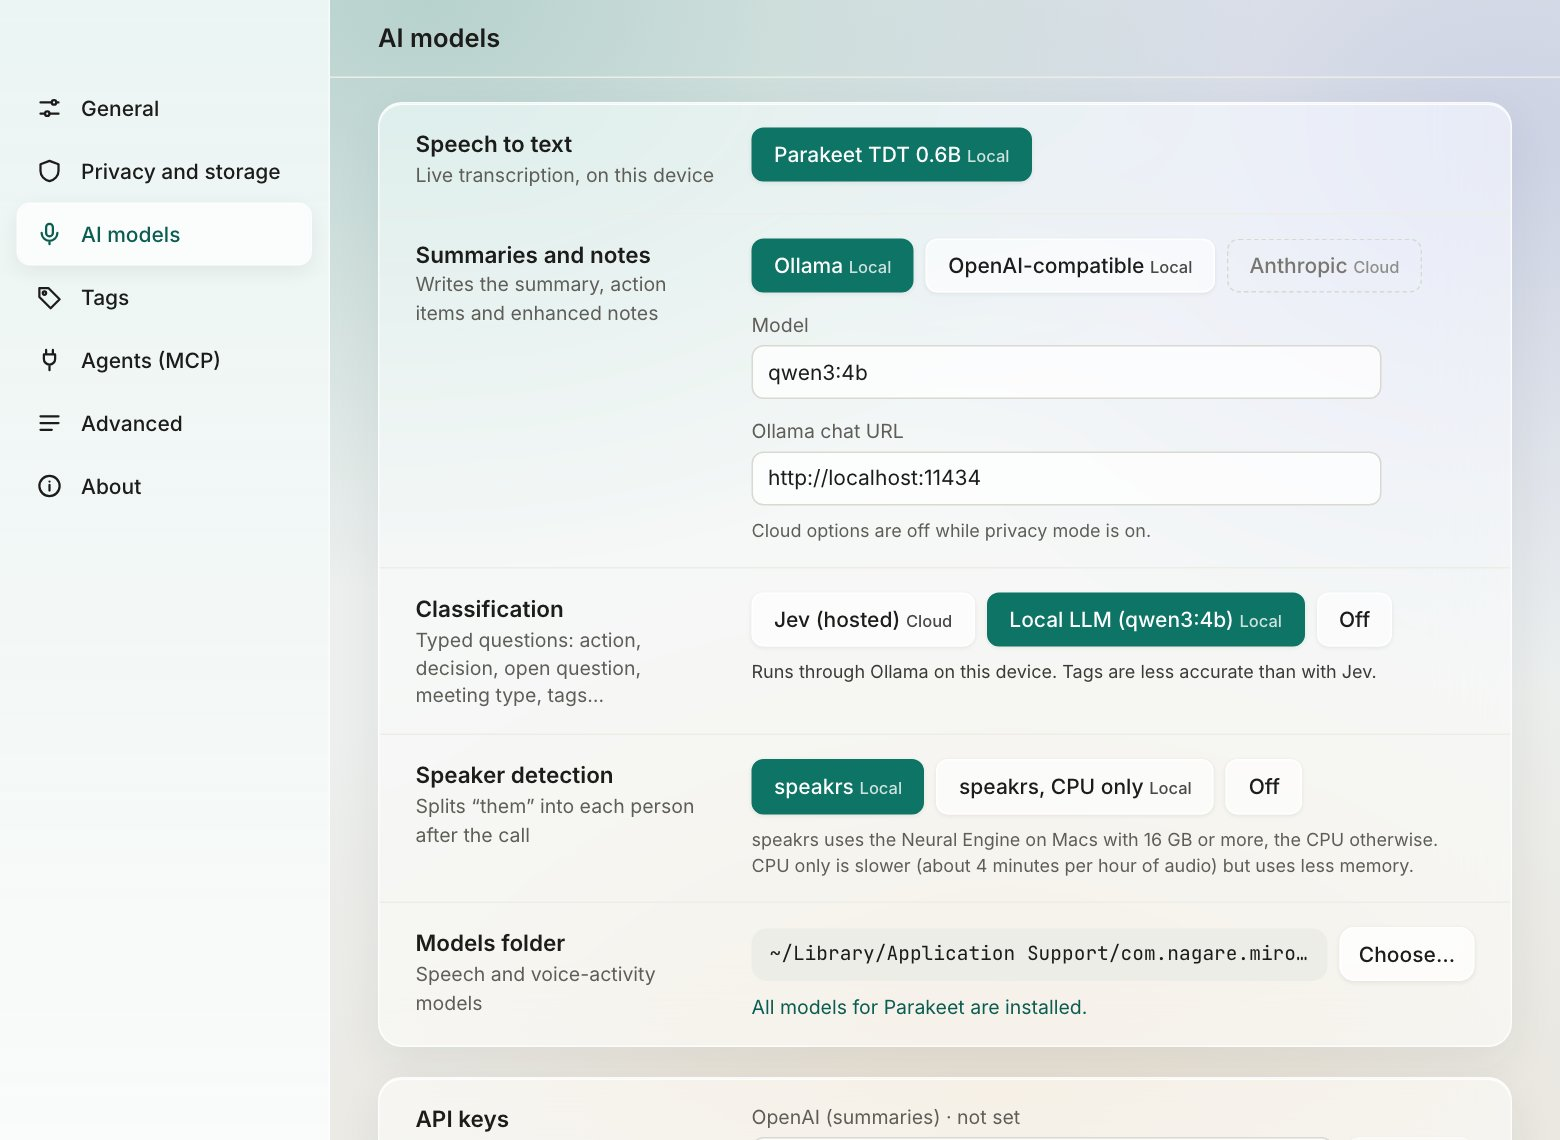
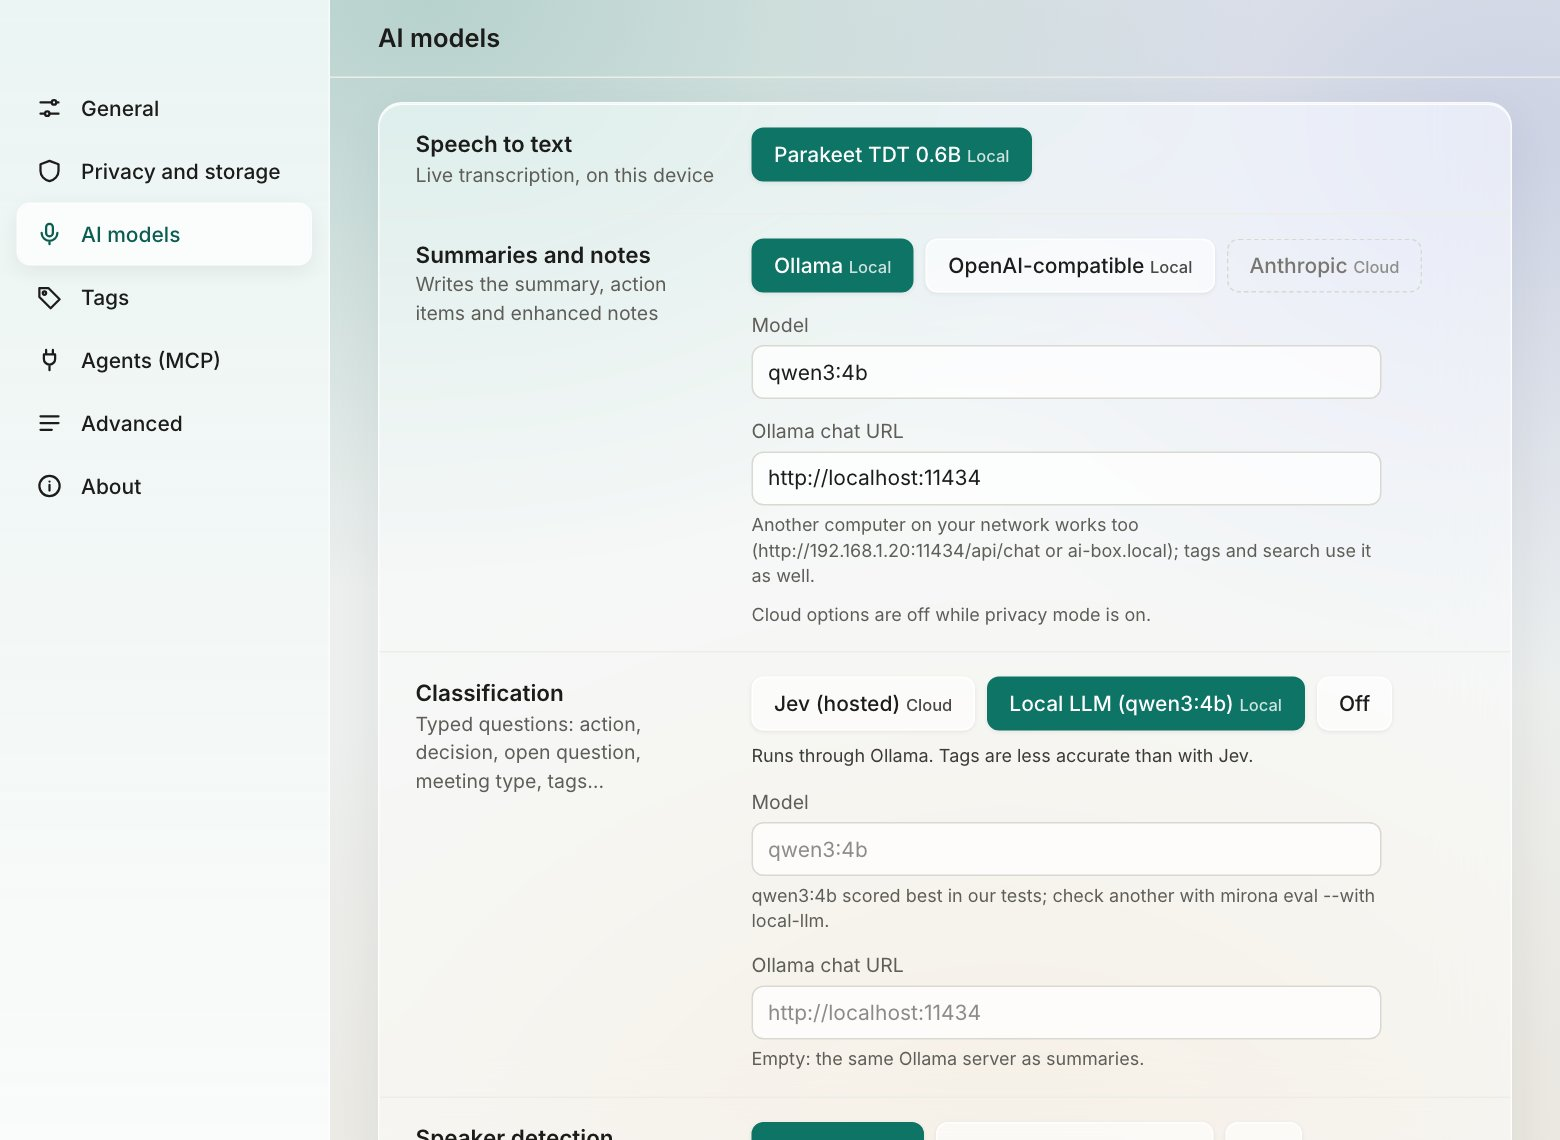
Local classifier model and server: Settings › AI models › Classification picks the Ollama model and chat URL ([classifier] in config.toml; empty: qwen3:4b on the summary's Ollama server), checked against privacy mode; mirona eval --with local-llm uses it

diff --git a/app/src/views/Settings.tsx b/app/src/views/Settings.tsx
@@ -879,7 +879,7 @@ function SettingsView() {
             value={st.classification}
             options={[
               { id: "jev", name: "Jev (hosted)", cloud: true },
-              { id: "local-llm", name: "Local LLM (qwen3:4b)" },
+              { id: "local-llm", name: `Local LLM (${st.classifierModel || "qwen3:4b"})` },
               { id: "off", name: "Off", tag: "" },
             ]}
             onPick={(classification) => save({ classification })}
@@ -887,7 +887,25 @@ function SettingsView() {
           {st.classification === "jev" && privacy && (
             <p className="mt-2 text-[12px] text-ink-3">Privacy mode is on, so the local LLM answers instead of Jev. Tags are less accurate in privacy mode.</p>
           )}
-          {st.classification === "local-llm" && <p className="mt-2 text-[12px] text-ink-3">Runs through Ollama on this device. Tags are less accurate than with Jev.</p>}
+          {st.classification === "local-llm" && <p className="mt-2 text-[12px] text-ink-3">Runs through Ollama. Tags are less accurate than with Jev.</p>}
+          {(st.classification === "local-llm" || (st.classification === "jev" && privacy)) && (
+            <div className="mt-3 flex max-w-[420px] flex-col gap-3">
+              <Field
+                label="Model"
+                hint="qwen3:4b scored best in our tests; check another with mirona eval --with local-llm."
+                value={st.classifierModel}
+                placeholder="qwen3:4b"
+                onSave={(classifierModel) => save({ classifierModel })}
+              />
+              <Field
+                label="Ollama chat URL"
+                hint="Empty: the same Ollama server as summaries."
+                value={st.classifierBaseUrl}
+                placeholder={st.llm === "ollama" && st.llmBaseUrl ? st.llmBaseUrl : llmDefaults.ollama.url}
+                onSave={(classifierBaseUrl) => save({ classifierBaseUrl })}
+              />
+            </div>
+          )}
           {st.classification === "jev" && !privacy && !status.keys.includes("jev") && (
             <p className="mt-2 text-[12px] text-record-text">Add your Jev key under API keys below; until then the local LLM answers.</p>
           )}

diff --git a/app/src/lib/api.ts b/app/src/lib/api.ts
@@ -35,6 +35,9 @@ export type Settings = {
   meetingsDir: string;
   modelsDir: string;
   classification: "jev" | "local-llm" | "off";
+  /** The local classifier (Ollama); empty: qwen3:4b on the summary's Ollama server. */
+  classifierModel: string;
+  classifierBaseUrl: string;
   diarization: "speakrs" | "speakrs-cpu" | "off";
   /** Question id → the user's threshold; the rest use `thresholdDefaults`. */
   thresholds: Record<string, number>;

diff --git a/app/scripts/shots/mock.ts b/app/scripts/shots/mock.ts
@@ -28,6 +28,8 @@ const settings = {
   meetingsDir: "~/Documents/Mirona",
   modelsDir: "~/Library/Application Support/com.nagare.mirona/models",
   classification: "local-llm",
+  classifierModel: "",
+  classifierBaseUrl: "",
   diarization: "speakrs",
   thresholds: {},
   thresholdDefaults: { action: 0.99, decision: 0.95, unanswered: 0.85, smalltalk: 0.85, sensitive: 0.6, meeting_type: 0.85, tag: 0.85, follow_up: 0.85 },

diff --git a/app/src-tauri/src/lib.rs b/app/src-tauri/src/lib.rs
@@ -1318,6 +1318,11 @@ struct Settings {
     /// jev | local-llm | off
     #[serde(default)]
     classification: String,
+    /// The local classifier's Ollama model and chat URL; empty: `qwen3:4b`, the summary's server.
+    #[serde(default)]
+    classifier_model: String,
+    #[serde(default)]
+    classifier_base_url: String,
     /// speakrs (`CoreML` when it can) | speakrs-cpu | off
     #[serde(default)]
     diarization: String,
@@ -1420,6 +1425,8 @@ impl Settings {
             meetings_dir: paths.meetings.clone(),
             models_dir: paths.models.clone(),
             classification: mirona_engine::stage(cfg, "classification", "jev"),
+            classifier_model: cfg.classifier.model.clone(),
+            classifier_base_url: cfg.classifier.base_url.clone(),
             diarization: mirona_engine::stage(cfg, "diarization", "speakrs"),
             thresholds: cfg.thresholds.clone(),
             threshold_defaults: {
@@ -1447,6 +1454,19 @@ impl Settings {
             retention_tags: cfg.retention.tags.clone(),
             check_updates: cfg.check_updates,
         }
+    }
+
+    /// The classifier's Ollama URL; in privacy mode only this Mac or the local network.
+    fn classifier_url(&self) -> Res<&str> {
+        let url = self.classifier_base_url.trim();
+        if self.privacy && !url.is_empty() && !mirona_providers::net::is_local(url) {
+            return Err(
+                "In privacy mode the classification server must be on this Mac or your \
+                        local network."
+                    .into(),
+            );
+        }
+        Ok(url)
     }
 
     /// `cfg` with these settings applied. The LLM goes through the privacy gate; folders equal
@@ -1493,6 +1513,7 @@ impl Settings {
         if !["jev", "local-llm", "off"].contains(&self.classification.as_str()) {
             return Err(format!("unknown classifier {}", self.classification));
         }
+        let classifier_url = self.classifier_url()?;
         if !["speakrs", "speakrs-cpu", "off"].contains(&self.diarization.as_str()) {
             return Err(format!("unknown speaker detection {}", self.diarization));
         }
@@ -1511,6 +1532,8 @@ impl Settings {
         cfg.providers.insert("llm".into(), self.llm.clone());
         cfg.llm.model = self.llm_model.trim().into();
         cfg.llm.base_url = base.into();
+        cfg.classifier.model = self.classifier_model.trim().into();
+        cfg.classifier.base_url = classifier_url.into();
         cfg.template = self.template.trim().into();
         cfg.mcp_enabled = self.mcp_enabled;
         cfg.mcp_http = self.mcp_http;
@@ -2400,5 +2423,28 @@ mod tests {
         assert_eq!(cfg.providers["llm"], "anthropic");
         s.llm = "gpt-5".into();
         assert!(s.apply(Config::default(), &d).is_err(), "unknown provider");
+    }
+
+    #[test]
+    fn classifier_model_and_server_are_saved_and_gated() {
+        let d = defaults();
+        let mut s = Settings::of(&Config::default(), &d);
+        s.classification = "local-llm".into();
+        s.classifier_model = " qwen3:14b ".into();
+        s.classifier_base_url = "http://192.168.1.20:11434/api/chat".into();
+        let cfg = s.apply(Config::default(), &d).unwrap();
+        assert_eq!(cfg.classifier.model, "qwen3:14b");
+        assert_eq!(
+            cfg.classifier.base_url,
+            "http://192.168.1.20:11434/api/chat"
+        );
+        assert_eq!(Settings::of(&cfg, &d).classifier_model, "qwen3:14b");
+        s.classifier_base_url = "https://ollama.example.com/api/chat".into();
+        assert!(
+            s.apply(Config::default(), &d).is_err(),
+            "public server in privacy mode"
+        );
+        s.privacy = false;
+        assert!(s.apply(Config::default(), &d).is_ok());
     }
 }

diff --git a/crates/mirona-engine/src/classify.rs b/crates/mirona-engine/src/classify.rs
@@ -60,15 +60,34 @@ pub enum AnyClassifier {
     Local(Ollama),
 }
 
+/// The local classifier: `[classifier]` model and Ollama chat URL, else `qwen3:4b` on the
+/// summary's Ollama server.
+pub fn local_classifier(cfg: &Config) -> Ollama {
+    let pick = |v: &str, default: String| {
+        if v.trim().is_empty() {
+            default
+        } else {
+            v.trim().into()
+        }
+    };
+    Ollama::new(
+        pick(
+            &cfg.classifier.model,
+            mirona_providers::ollama::MODEL.into(),
+        ),
+        pick(
+            &cfg.classifier.base_url,
+            crate::ollama_url(cfg, "/api/chat"),
+        ),
+    )
+}
+
 impl AnyClassifier {
     /// Jev unless privacy mode is on, the config says `local-llm`, or there is no Jev key in
     /// the keychain (account `jev`); `None` when the config says `off`. The second value says
     /// why it fell back, when it did against the config's wish.
     pub fn from_config(cfg: &Config) -> (Option<Self>, Option<String>) {
-        let local = Some(Self::Local(Ollama::new(
-            mirona_providers::ollama::MODEL,
-            crate::ollama_url(cfg, "/api/chat"),
-        )));
+        let local = Some(Self::Local(local_classifier(cfg)));
         match stage(cfg, "classification", "jev").as_str() {
             "off" => return (None, None),
             "local-llm" => return (local, None),

diff --git a/crates/mirona-providers/src/config.rs b/crates/mirona-providers/src/config.rs
@@ -26,6 +26,9 @@ pub struct Config {
     /// Summary template id used after each recording (NGR-146).
     pub template: String,
     pub llm: LlmSettings,
+    /// The local model behind `classification = "local-llm"` (Ollama). Empty model:
+    /// `qwen3:4b`; empty URL: the summary's Ollama server ([`LlmSettings`]).
+    pub classifier: LlmSettings,
     /// Let MCP clients read meetings. Off: `mirona mcp` refuses to serve (NGR-148/150).
     pub mcp_enabled: bool,
     /// Also serve MCP over streamable HTTP on 127.0.0.1 (`mcp_port`), for clients that can't
@@ -126,6 +129,7 @@ impl Default for Config {
             models_dir: None,
             template: "client-call".into(),
             llm: LlmSettings::default(),
+            classifier: LlmSettings::default(),
             // Off until the user lets agents in (onboarding or Settings).
             mcp_enabled: false,
             mcp_http: false,

diff --git a/crates/mirona-engine/src/tests.rs b/crates/mirona-engine/src/tests.rs
@@ -590,3 +590,18 @@ fn ollama_url_follows_the_summary_server() {
         "http://localhost:11434/api/chat"
     );
 }
+
+/// The local classifier: `[classifier]` when set, else qwen3:4b on the summary's server.
+#[test]
+fn local_classifier_uses_its_own_model_and_server() {
+    use crate::classify::local_classifier;
+    use mirona_providers::Provider;
+    let mut cfg = Config::default();
+    cfg.llm.base_url = "http://192.168.1.20:11434/api/chat".into();
+    let c = local_classifier(&cfg);
+    assert_eq!(c.model(), mirona_providers::ollama::MODEL);
+    assert_eq!(c.locality(), Locality::Local);
+    cfg.classifier.model = "qwen3:14b".into();
+    cfg.classifier.base_url = "http://10.0.0.9:11434/api/chat".into();
+    assert_eq!(local_classifier(&cfg).model(), "qwen3:14b");
+}

diff --git a/crates/mirona-cli/src/main.rs b/crates/mirona-cli/src/main.rs
@@ -344,7 +344,7 @@ fn run_eval(
     limit: Option<usize>,
 ) -> Result {
     use mirona_engine::classify::AnyClassifier;
-    use mirona_providers::{fake::Fake, jev::Jev, ollama::Ollama};
+    use mirona_providers::{fake::Fake, jev::Jev};
     let (cfg, _) = mirona_mcp::load(app_dir)?;
     let labels = if no_labels {
         None
@@ -389,9 +389,9 @@ fn run_eval(
                 )
             }
             "local-llm" => {
-                let c = Ollama::default();
+                let c = mirona_engine::classify::local_classifier(&cfg);
                 (
-                    eval::name(&c) + " " + mirona_providers::ollama::MODEL,
+                    eval::name(&c) + " " + c.model(),
                     eval::run(&c, &examples, context),
                 )
             }

diff --git a/crates/mirona-providers/src/ollama.rs b/crates/mirona-providers/src/ollama.rs
@@ -27,6 +27,10 @@ impl Ollama {
             http: ureq::Agent::new_with_defaults(),
         }
     }
+
+    pub fn model(&self) -> &str {
+        &self.model
+    }
 }
 
 impl Default for Ollama {

diff --git a/CLAUDE.md b/CLAUDE.md
@@ -46,7 +46,7 @@ Workspace crates (`crates/*`) plus the Tauri crate `app/src-tauri` (`mirona-app`
   Real providers sit behind features (`jev`, `ollama`, `parakeet`, `speakrs`; off by default): `jev::Jev` and `ollama::Ollama` (`Classifier::ask`: typed yes/no, choice and score questions from `questions.rs`, one call per text), `parakeet::Parakeet` (SttProvider), `speakrs::Speakrs` (Diarizer + voiceprint matching rule). Model/live tests are `#[ignore]`d; run them with:
   `MIRONA_PARAKEET_DIR=… MIRONA_SPEAKRS_DIR=… TYPESAFE_API_KEY=… cargo test -p mirona-providers --all-features -- --include-ignored` (models come from `spikes/*/fetch.sh`; Ollama must be serving qwen3:4b). `mirona eval` reruns the 50-chunk eval (plus the user's corrections from `<meetings>/.mirona/labels.jsonl`) through the Rust classifiers; `live_records_fixtures` re-records the Jev/Ollama fixtures.
   `net.rs` is the network gate: every HTTP request calls `net::allow(url, locality)` first; in privacy mode only this machine and the local network pass (`net::is_local`: loopback, private/Tailscale IPs, `.local`; `locality()` of local providers uses it too); the exceptions are `net::allow_model` (user-started model downloads from pinned hosts, `MODEL_HOSTS`) and `net::allow_update` (the opt-in update check, github.com only). The switch is process-wide, starts on, and is set from config by `Engine::new`/`set_config` and `mirona_mcp::load`. Any new network code must go through it. `ollama::OllamaEmbedder` (`nomic-embed-text`) embeds for search. `mirona_engine::ollama_url` gives every Ollama stage (summary, local classifier, embeddings) the server from the summary's Ollama chat URL, so one AI machine on the network can serve them all.
-  `config::Config` also holds `meetings_dir`, `models_dir`, the summary `template`, `llm` (model, base URL), `mcp_enabled` (off by default), `mcp_sensitive` (agents may read sensitive lines; off), the record `shortcut`, per-question `thresholds`, `tags` (names, `group:name` or `name`; a map whose values are emptied on load since descriptions were dropped in NGR-202; old `[clients]` migrate to `project:` tags on load, old `[tag_groups]` are ignored); `[providers] classification` is `jev` (default), `local-llm` or `off`. LLM providers (`ollama`, `openai`, `anthropic` features) stream and report usage; API keys live in the OS keychain (`keychain` feature; accounts `openai`, `anthropic`, `jev`), entered by each user in Settings › AI models › API keys, never in config.
+  `config::Config` also holds `meetings_dir`, `models_dir`, the summary `template`, `llm` (model, base URL), `mcp_enabled` (off by default), `mcp_sensitive` (agents may read sensitive lines; off), the record `shortcut`, per-question `thresholds`, `tags` (names, `group:name` or `name`; a map whose values are emptied on load since descriptions were dropped in NGR-202; old `[clients]` migrate to `project:` tags on load, old `[tag_groups]` are ignored); `[providers] classification` is `jev` (default), `local-llm` or `off`; `[classifier]` (model, base URL; empty: `qwen3:4b` on the summary's Ollama server, `classify::local_classifier`) picks the local one. LLM providers (`ollama`, `openai`, `anthropic` features) stream and report usage; API keys live in the OS keychain (`keychain` feature; accounts `openai`, `anthropic`, `jev`), entered by each user in Settings › AI models › API keys, never in config.
 - **mirona-store** — files are the source of truth: one folder per meeting (`meeting.md` = YAML frontmatter + `## Notes` body, `transcript.jsonl` append-only, `audio.wav` while recording → `audio.caf` (Opus) after), plus `<root>/.mirona/index.sqlite` (FTS5) rebuilt by `reindex()`. `Store::open` rebuilds the index; readers in other processes (MCP, CLI) use `Store::open_snapshot` so they never rewrite the app's index. `crypt.rs`: optional XChaCha20-Poly1305 at rest (transcript lines, audio, `embeddings.json`, `voices.json`, `labels.jsonl`; key from the engine's keychain lookup, `open_with`/`open_snapshot_with`); while encrypted the index is in memory only. `search.rs`: hybrid search (FTS5 + per-line vectors in `<meeting>/embeddings.json`, RRF, filters). `lifecycle.rs`: encryption on/off, `plain_audio` (decrypted copy for playback/diarization), retention building blocks, delete everywhere. `Segment::is_sensitive` (core) is the one rule for what stays out of summaries, cloud models, search vectors and agents (the classifier reads each line once to tag it). Errors are `Result<T, String>`. `sample.rs` seeds demo meetings for tests and "Add demo meetings".
 - **mirona-capture** — macOS capture (cpal: mic + system audio via a Core Audio process tap), resampling, Silero VAD chunking (≤5 s target, cut at pauses), per-source live STT on a worker, offline `transcribe_file`. Streams are rebuilt when the default device or its sample rate changes (AirPods flip rate when their mic opens). Non-macOS builds compile; live capture returns an error there. `examples/record_probe.rs` checks real hardware from inside an app bundle. Recordings are compressed to Opus in CAF (`compress.rs`, libopus built by cmake through `opusic-sys`); `decode` reads them back on every OS.
 - **mirona-summary** — editable Markdown templates (`templates/*.md`, written to the app dir), `summarize` and `enhance_notes` over any `LlmProvider`, citing transcript line numbers (0-based) mapped back to timestamps.

diff --git a/docs/guide/summaries.md b/docs/guide/summaries.md
@@ -10,7 +10,7 @@ Mirona uses a different model for each stage. Settings › **AI models** picks t
 | --- | --- | --- | --- |
 | **Speech to text** | Live transcription | Parakeet TDT 0.6B (default). Whisper only in builds with the `whisper` feature | – |
 | **Speaker detection** | Splits "Them" into people, matches known voices | speakrs (Neural Engine on 16 GB+ Macs, CPU otherwise), or CPU only | – |
-| **Classification** | Tags lines, answers the meeting questions | Local LLM (`qwen3:4b` in Ollama) | Jev (TypeSafe) |
+| **Classification** | Tags lines, answers the meeting questions | Local LLM (`qwen3:4b` in Ollama by default, any Ollama model) | Jev (TypeSafe) |
 | **Summaries and notes** | Summary, enhanced notes, follow-up email, task wording, tag suggestions | Ollama (`qwen3:4b` by default), or an OpenAI-compatible server on this Mac (LM Studio, vLLM…) | OpenAI-compatible (default `gpt-4.1-mini`), Anthropic (default `claude-opus-5-5`) |
 | **Search by meaning** | Embeddings for search | Ollama `nomic-embed-text` | – |
 
@@ -47,6 +47,11 @@ privacy mode allows them; plain names like `http://ai-box` don't, use its IP or 
 Transcription and speaker naming stay on the Mac. The traffic is plain HTTP: on a network you
 don't trust, use Tailscale or an SSH tunnel (`ssh -N -L 11434:localhost:11434 ai-box`, then
 keep the URL on `localhost`).
+
+**A different model for tags:** Settings › AI models › Classification › **Model** and **Ollama
+chat URL** (shown while the local LLM tags). Empty, tags use `qwen3:4b` on the summary's server.
+`qwen3:4b` scored best in our tests; before switching, compare a bigger model on your own
+meetings: `mirona eval --with local-llm` uses the model set here.
 
 ### Using a cloud model
 

diff --git a/docs/guide/settings.md b/docs/guide/settings.md
@@ -39,7 +39,7 @@ except API keys and the encryption key, which are in the macOS keychain.
 | --- | --- | --- |
 | **Speech to text** | Parakeet TDT 0.6B (Whisper in builds that include it) | Parakeet |
 | **Summaries and notes** | Ollama, OpenAI-compatible, Anthropic; plus the model name and the server URL | Ollama, `qwen3:4b` |
-| **Classification** | Jev (hosted), Local LLM (`qwen3:4b`), Off | Jev; the local LLM while privacy mode is on or without a Jev key |
+| **Classification** | Jev (hosted), Local LLM, Off; for the local LLM, the Ollama model and chat URL | Jev; the local LLM (`qwen3:4b` on the summary's Ollama server) while privacy mode is on or without a Jev key |
 | **Speaker detection** | speakrs, speakrs CPU only, Off | speakrs |
 | **Models folder** | Where the speech and voice models are. Shows what's missing, with a download button. | `~/Library/Application Support/com.nagare.mirona/models` |
 | **API keys** | OpenAI, Anthropic and Jev keys, saved in the keychain. | – |
